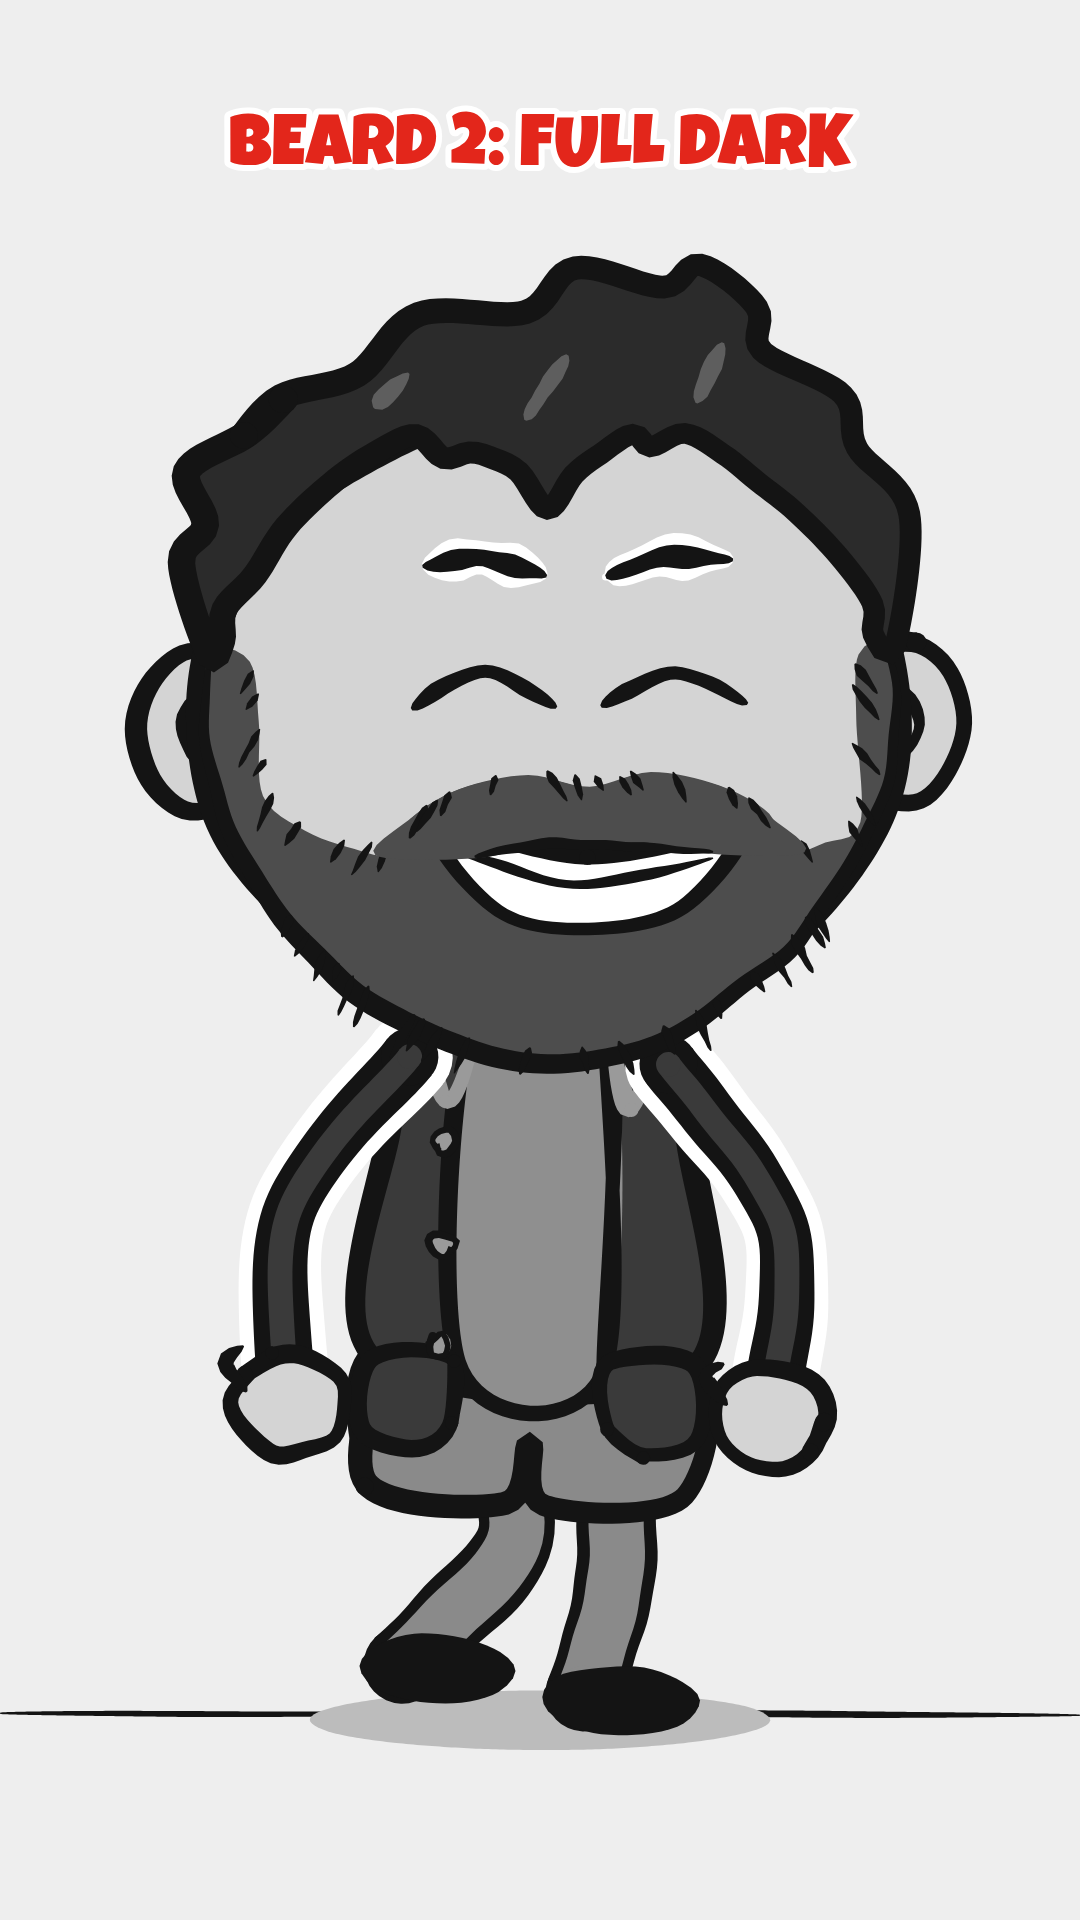
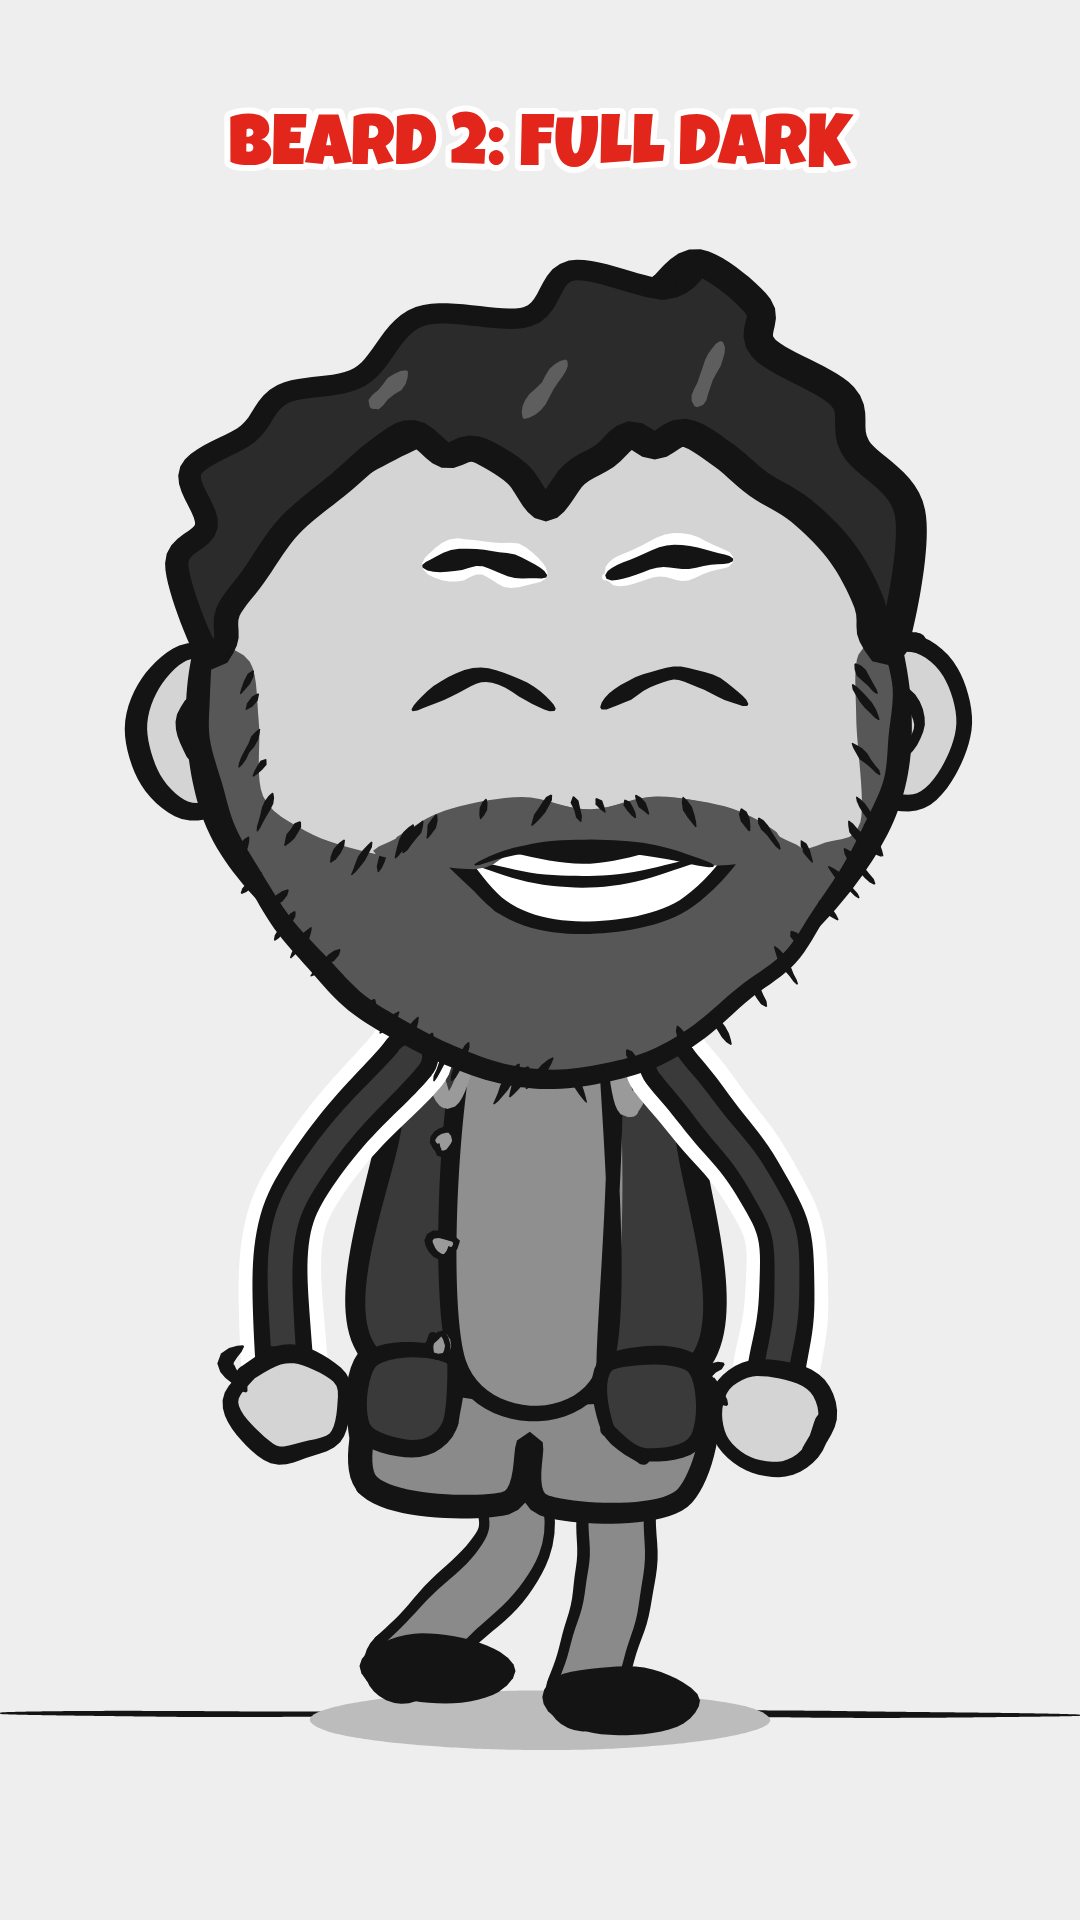
Squeex beard 2: lower moustache top, fuller chin, hair strokes along the bottom
Skin now shows under the eyes; the shocked gape opens only below the
moustache; rounded mouth corners; a shade lighter to sit apart from the
jacket. Adds a six-emotion still of beard 2.

Claude-Session: https://claude.ai/code/session_01RKmGcx8q1V1rbfKyx6bNrn

diff --git a/web/cameos.js b/web/cameos.js
@@ -1314,21 +1314,21 @@ const Cameos = (() => {
   // moustache corners, the moustache on the upper lip, a rounded full chin.
   // Ink only at the edges (short strokes along the cheek line and the bottom),
   // a flat fill inside. It stretches with the jaw; the mouth cuts into it.
-  const FULLB = '#4d4d4d';
+  const FULLB = '#575757';
   // on a shocked gape the eyes are huge, so the moustache and lip sit a little lower
   const fullDrop = p => p?.mouth === 'gape' ? 20 * (p.open ?? 0) / RY : 0;
   const fullParts = d => {
     const outer = [];
     for (let i = 0; i <= 24; i++) {   // jaw edge, from the top of one sideburn to the other, round and a little fuller at the chin
       const a = Math.PI * (-0.07 + 1.14 * i / 24), dn = Math.max(0, Math.sin(a));
-      outer.push([Math.cos(a) * 0.99, Math.sin(a) * 0.99 + 0.15 * dn * dn * dn]);
+      outer.push([Math.cos(a) * 0.99, Math.sin(a) * 0.99 + 0.2 * dn * dn * dn]);
     }
     // cheek lines: down the sideburn in front of the ear, then a clean slope to the moustache corner
     const cheekL = [[-0.86, -0.18], [-0.84, 0.02], [-0.82, 0.26], [-0.7, 0.38], [-0.56, 0.43 + d], [-0.46, 0.46 + d]];
-    const stache = [[-0.4, 0.34], [-0.26, 0.24], [-0.06, 0.2], [0.11, 0.24], [0.28, 0.2], [0.48, 0.24], [0.62, 0.34]].map(([x, y]) => [x, y + d]);
+    const stache = [[-0.44, 0.4], [-0.3, 0.32], [-0.08, 0.28], [0.11, 0.31], [0.3, 0.28], [0.52, 0.32], [0.64, 0.4]].map(([x, y]) => [x, y + d]);
     const cheekR = [[0.68, 0.46 + d], [0.78, 0.43 + d], [0.88, 0.36], [0.88, 0.02], [0.88, -0.18]];
     // the upper lip line, and the lower lip showing under it (the mouth draws over both)
-    const lipTop = [[-0.22, 0.47], [-0.02, 0.43], [0.11, 0.43], [0.26, 0.43], [0.46, 0.47]].map(([x, y]) => [x, y + d]);
+    const lipTop = [[-0.22, 0.5], [-0.1, 0.45], [0.11, 0.43], [0.32, 0.45], [0.46, 0.5]].map(([x, y]) => [x, y + d]);   // rounded corners
     const lip = [...lipTop, ...[[0.3, 0.53], [0.11, 0.55], [-0.08, 0.53]].map(([x, y]) => [x, y + d])];
     return { outer, cheekL, stache, cheekR, lipTop, lip };
   };
@@ -1358,7 +1358,7 @@ const Cameos = (() => {
     stroke(ctx, O, { w: 8, taper0: 0.3, taper1: 0.3 });   // the jaw edge
     hairEdge(ctx, P(cheekL), 700);
     hairEdge(ctx, P([...cheekR].reverse()), 740);
-    hairEdge(ctx, P(outer.slice(6, 19).map(([x, y]) => [x, y - 0.04])), 820, { len: 14, out: 0 });
+    hairEdge(ctx, P(outer.slice(4, 21)), 820, { len: 13, out: 6 });   // across the jaw edge, all along the bottom
   };
   // The moustache again on top of the mouth, so an open mouth opens downward from
   // under it instead of eating it. Same fill, so it merges with the beard; ink on
@@ -1367,6 +1367,14 @@ const Cameos = (() => {
     if (rage) return;
     const jaw = p?.mouth === 'yell' ? 46 * (p.open ?? 0) : 0, P = fullStretch(jaw);
     const { stache, lipTop } = fullParts(fullDrop(p));
+    if (p?.mouth === 'gape') {   // the gape starts high; hide what rises above the moustache (only inside the mouth, so the eyes are untouched)
+      const o = p.open ?? 0, sc = p.mouthScale ?? 1, w2 = (22 + 14 * o) * sc, h = (26 + 44 * o) * sc, cx = fx + 4, cy = 62 + h * 0.18;
+      ctx.save();
+      ctx.beginPath(); ctx.ellipse(cx, cy, w2 + 6, h * 0.52 + 6, 0, 0, 7); ctx.clip();
+      const top = P(stache);
+      fill(ctx, [[top[0][0], -RY], [top[top.length - 1][0], -RY], ...[...top].reverse()], SQ_SKIN, 0);
+      ctx.restore();
+    }
     const sh = [[-0.5, 0.46 + fullDrop(p)], ...stache, [0.72, 0.46 + fullDrop(p)], ...[...lipTop].reverse()];
     fill(ctx, P(sh), FULLB, 1);
     stroke(ctx, P(lipTop), { w: 5, taper0: 0.3, taper1: 0.3 });
